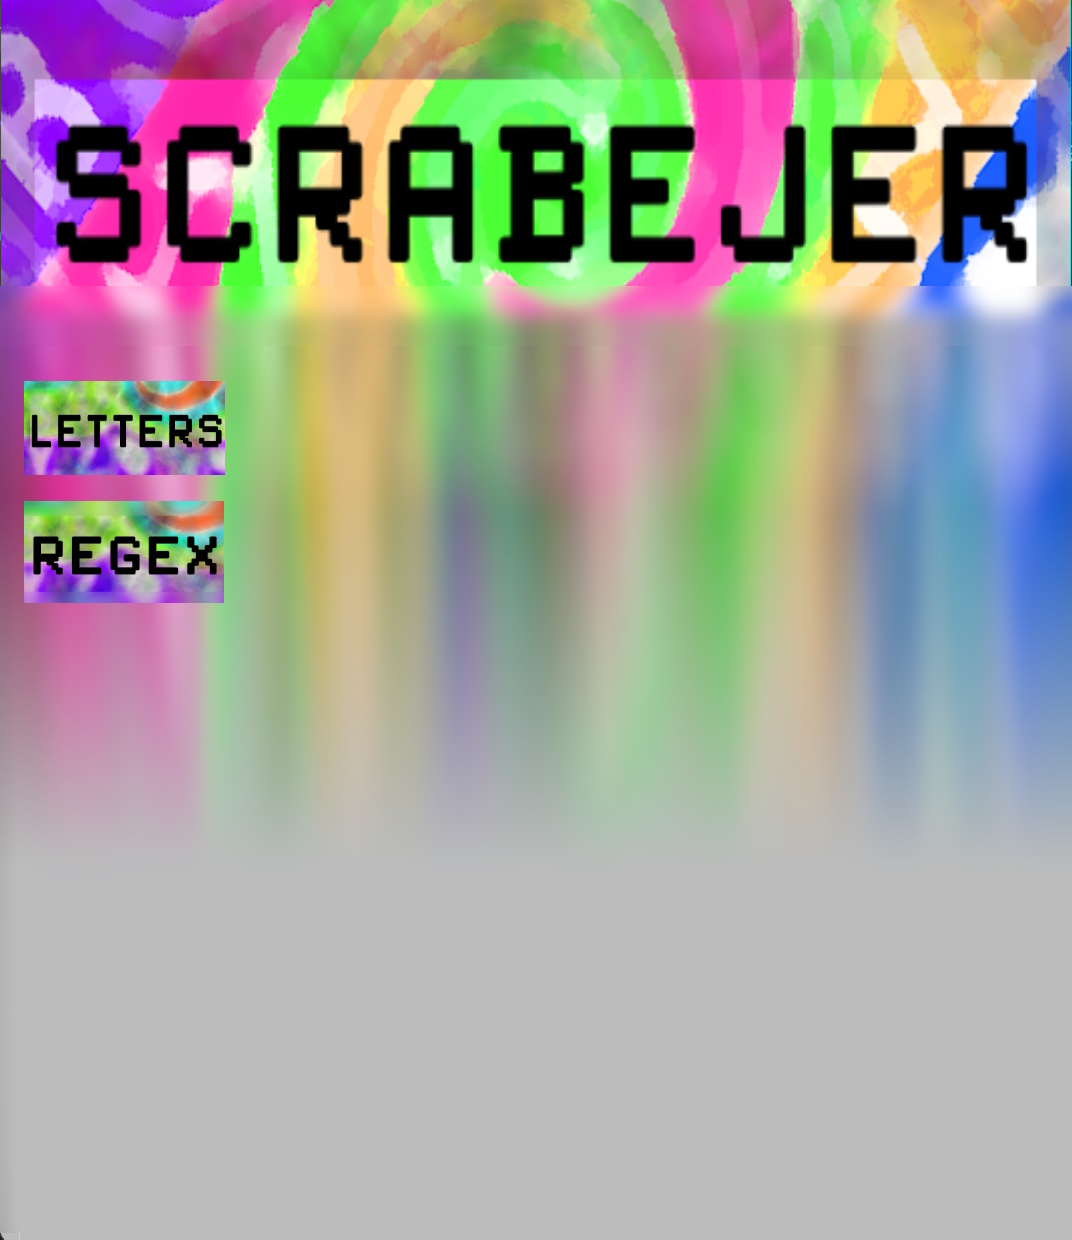
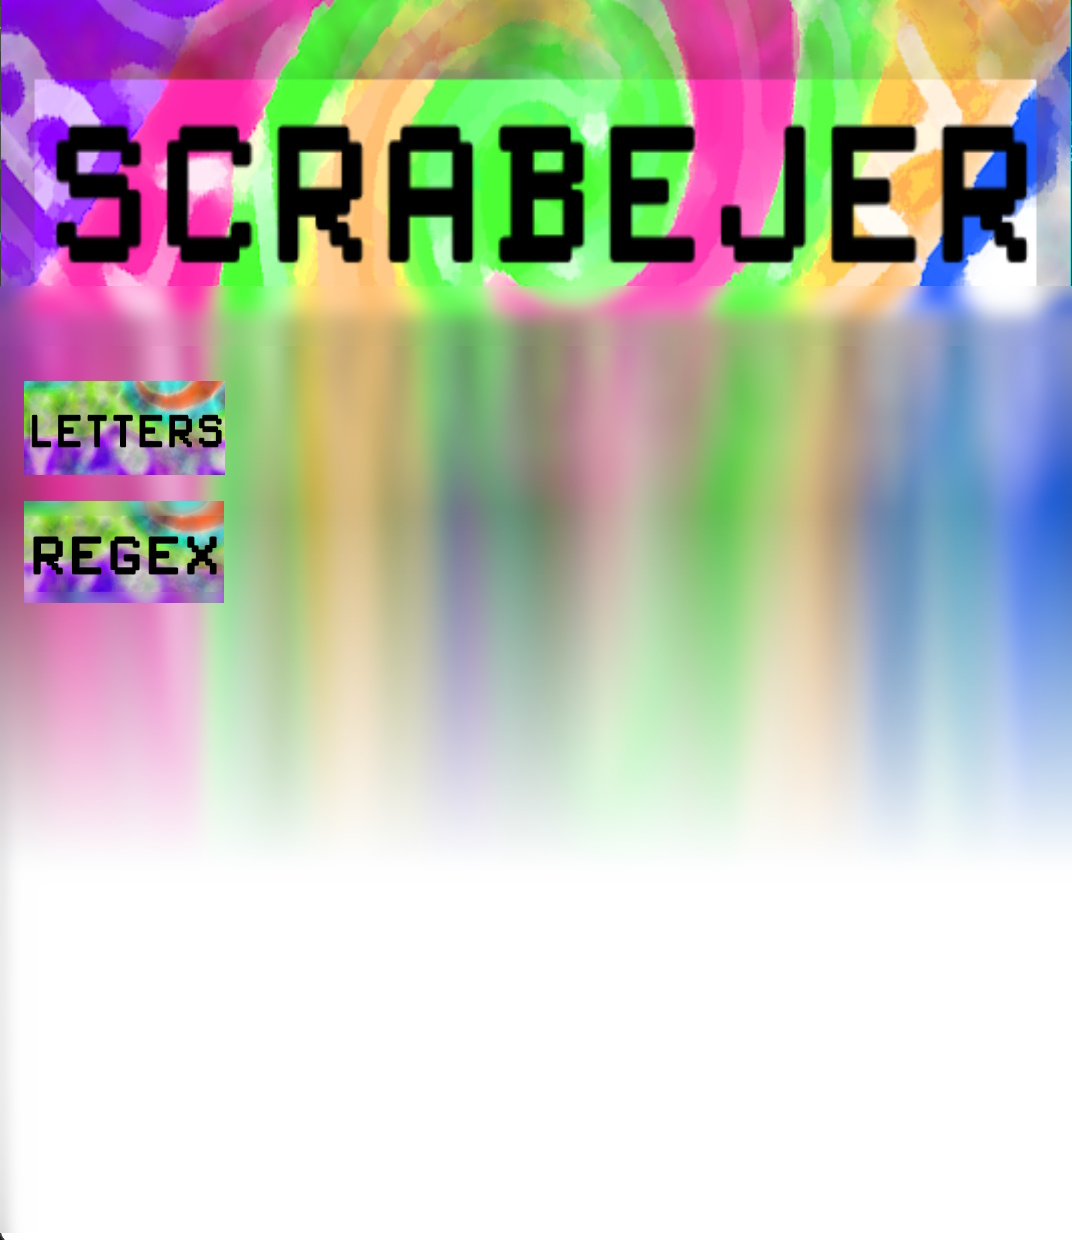
pretty

diff --git a/Scrabejer/Form1.Designer.cs b/Scrabejer/Form1.Designer.cs
@@ -28,68 +28,37 @@
         /// </summary>
         private void InitializeComponent()
         {
-            pictureBox1 = new PictureBox();
             listBox1 = new ListBox();
-            pictureBox3 = new PictureBox();
             textBox2 = new TextBox();
             textBox1 = new TextBox();
-            pictureBox2 = new PictureBox();
             button4 = new Button();
-            ((System.ComponentModel.ISupportInitialize)pictureBox1).BeginInit();
-            ((System.ComponentModel.ISupportInitialize)pictureBox3).BeginInit();
-            ((System.ComponentModel.ISupportInitialize)pictureBox2).BeginInit();
             SuspendLayout();
-            // 
-            // pictureBox1
-            // 
-            pictureBox1.Anchor = AnchorStyles.Top | AnchorStyles.Bottom | AnchorStyles.Left | AnchorStyles.Right;
-            pictureBox1.BackColor = Color.DarkTurquoise;
-            pictureBox1.Image = Properties.Resources.ScrabejerLogoPDNProject;
-            pictureBox1.Location = new Point(0, 0);
-            pictureBox1.Margin = new Padding(6);
-            pictureBox1.Name = "pictureBox1";
-            pictureBox1.Size = new Size(1070, 371);
-            pictureBox1.SizeMode = PictureBoxSizeMode.StretchImage;
-            pictureBox1.TabIndex = 1;
-            pictureBox1.TabStop = false;
             // 
             // listBox1
             // 
             listBox1.BackColor = SystemColors.Menu;
             listBox1.BorderStyle = BorderStyle.None;
-            listBox1.Font = new Font("Microsoft Sans Serif", 14F, FontStyle.Bold, GraphicsUnit.Point);
+            listBox1.Font = new Font("PixelSplitter", 13.8749981F, FontStyle.Bold, GraphicsUnit.Point);
             listBox1.ForeColor = SystemColors.MenuText;
             listBox1.FormattingEnabled = true;
-            listBox1.ItemHeight = 42;
+            listBox1.ItemHeight = 45;
             listBox1.Location = new Point(24, 634);
             listBox1.Margin = new Padding(6);
             listBox1.Name = "listBox1";
-            listBox1.Size = new Size(822, 588);
+            listBox1.Size = new Size(822, 585);
             listBox1.TabIndex = 3;
-            // 
-            // pictureBox3
-            // 
-            pictureBox3.Anchor = AnchorStyles.Left;
-            pictureBox3.Image = Properties.Resources.Regex;
-            pictureBox3.Location = new Point(21, 508);
-            pictureBox3.Margin = new Padding(6);
-            pictureBox3.Name = "pictureBox3";
-            pictureBox3.Size = new Size(202, 107);
-            pictureBox3.SizeMode = PictureBoxSizeMode.StretchImage;
-            pictureBox3.TabIndex = 4;
-            pictureBox3.TabStop = false;
             // 
             // textBox2
             // 
             textBox2.Anchor = AnchorStyles.Left | AnchorStyles.Right;
             textBox2.BackColor = SystemColors.Menu;
             textBox2.BorderStyle = BorderStyle.None;
-            textBox2.Font = new Font("Microsoft Sans Serif", 23F, FontStyle.Bold, GraphicsUnit.Point);
+            textBox2.Font = new Font("PixelSplitter", 25.8749962F, FontStyle.Bold, GraphicsUnit.Point);
             textBox2.ForeColor = SystemColors.MenuText;
-            textBox2.Location = new Point(262, 527);
+            textBox2.Location = new Point(255, 510);
             textBox2.Margin = new Padding(6);
             textBox2.Name = "textBox2";
-            textBox2.Size = new Size(796, 70);
+            textBox2.Size = new Size(796, 87);
             textBox2.TabIndex = 5;
             textBox2.Text = "(input)";
             textBox2.TextChanged += textBox2_TextChanged;
@@ -100,27 +69,15 @@
             textBox1.BackColor = SystemColors.Menu;
             textBox1.BorderStyle = BorderStyle.None;
             textBox1.Cursor = Cursors.IBeam;
-            textBox1.Font = new Font("Microsoft Sans Serif", 23F, FontStyle.Bold, GraphicsUnit.Point);
+            textBox1.Font = new Font("PixelSplitter", 25.8749962F, FontStyle.Bold, GraphicsUnit.Point);
             textBox1.ForeColor = SystemColors.WindowText;
-            textBox1.Location = new Point(263, 406);
+            textBox1.Location = new Point(257, 386);
             textBox1.Margin = new Padding(6);
             textBox1.Name = "textBox1";
-            textBox1.Size = new Size(795, 70);
+            textBox1.Size = new Size(795, 87);
             textBox1.TabIndex = 0;
             textBox1.Text = "(input)";
             textBox1.TextChanged += textBox1_TextChanged;
-            // 
-            // pictureBox2
-            // 
-            pictureBox2.Anchor = AnchorStyles.Left;
-            pictureBox2.Image = Properties.Resources.Letters;
-            pictureBox2.Location = new Point(23, 389);
-            pictureBox2.Margin = new Padding(6);
-            pictureBox2.Name = "pictureBox2";
-            pictureBox2.Size = new Size(202, 96);
-            pictureBox2.SizeMode = PictureBoxSizeMode.StretchImage;
-            pictureBox2.TabIndex = 6;
-            pictureBox2.TabStop = false;
             // 
             // button4
             // 
@@ -140,32 +97,25 @@
             AutoScaleDimensions = new SizeF(13F, 32F);
             AutoScaleMode = AutoScaleMode.Font;
             BackColor = Color.Gainsboro;
+            BackgroundImage = Properties.Resources.BackgroundProj;
+            BackgroundImageLayout = ImageLayout.Stretch;
             ClientSize = new Size(1070, 1244);
             Controls.Add(button4);
-            Controls.Add(pictureBox2);
             Controls.Add(textBox2);
-            Controls.Add(pictureBox3);
             Controls.Add(listBox1);
-            Controls.Add(pictureBox1);
             Controls.Add(textBox1);
             Margin = new Padding(6);
             Name = "Form1";
             Text = "Form1";
             Load += Form1_Load;
-            ((System.ComponentModel.ISupportInitialize)pictureBox1).EndInit();
-            ((System.ComponentModel.ISupportInitialize)pictureBox3).EndInit();
-            ((System.ComponentModel.ISupportInitialize)pictureBox2).EndInit();
             ResumeLayout(false);
             PerformLayout();
         }
 
         #endregion
-        private PictureBox pictureBox1;
         private ListBox listBox1;
-        private PictureBox pictureBox3;
         private TextBox textBox2;
         private TextBox textBox1;
-        private PictureBox pictureBox2;
         private Button button4;
     }
 }

diff --git a/Scrabejer/Properties/Resources.Designer.cs b/Scrabejer/Properties/Resources.Designer.cs
@@ -61,6 +61,16 @@ namespace Scrabejer.Properties {
         }
         
         /// <summary>
+        ///   Looks up a localized resource of type System.Drawing.Bitmap.
+        /// </summary>
+        internal static System.Drawing.Bitmap BackgroundProj {
+            get {
+                object obj = ResourceManager.GetObject("BackgroundProj", resourceCulture);
+                return ((System.Drawing.Bitmap)(obj));
+            }
+        }
+        
+        /// <summary>
         ///   Looks up a localized resource of type System.Byte[].
         /// </summary>
         internal static byte[] collins {

diff --git a/Scrabejer/DictionaryScavenger.cs b/Scrabejer/DictionaryScavenger.cs
@@ -66,6 +66,8 @@ namespace Scrabejer
         }
         private IEnumerable<string> getWordsForRegexAndLetters(string regexPattern, string letters)
         {
+            regexPattern = regexPattern.ToLower();
+            letters = letters.ToLower();
             List<string> validWords = new();
 
             Regex regex;
